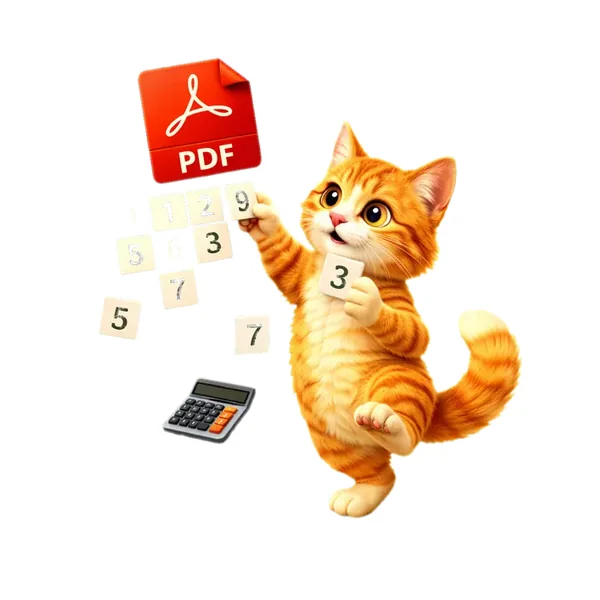
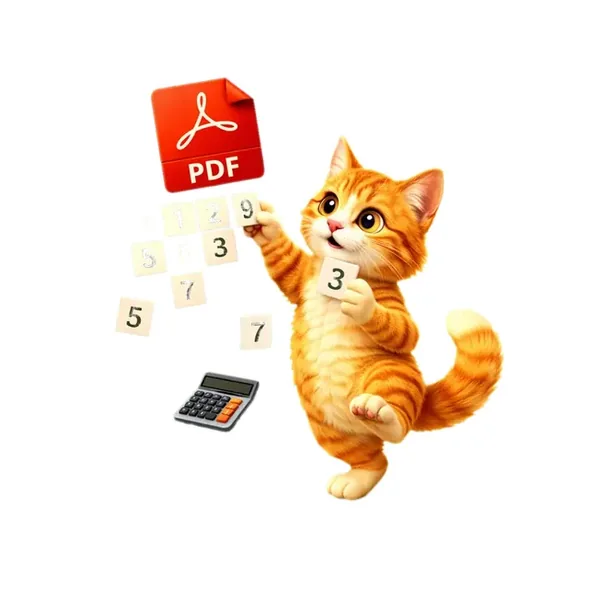
pdf-to-excel-nasil-yapilir: %8 daha küçült (total ~%22 shrink)
Önceki %15 shrink'ten sonra kullanıcı %8 daha küçük istedi.
Mevcut 600x600 canvas içinde content ek 0.92 scale.

Changed region(s): [[0.15, 0.09, 0.87, 0.87], [0.27, 0.6, 0.45, 0.75], [0.39, 0.54, 0.45, 0.6]]

diff --git a/site/pdf-to-excel.html b/site/pdf-to-excel.html
@@ -612,7 +612,7 @@
             <div class="bg-white rounded-2xl shadow p-6 md:p-8">
                 <div class="grid md:grid-cols-3 gap-8 items-start">
                     <div class="md:col-span-1 flex justify-center">
-                        <img src="/images/pdf-to-excel-nasil-yapilir.webp?v=ea834df1"
+                        <img src="/images/pdf-to-excel-nasil-yapilir.webp?v=9727d78e"
                              alt="Turuncu tabby kedi kırmızı PDF kaynağından yeşil Excel ızgarasına uçuşan sayı karoları yerleştiriyor, yanında minik hesap makinesi — PDF'den Excel'e aracının maskotu, 3D illüstrasyon"
                              class="w-56 md:w-full max-w-sm"
                              width="450" height="450"
